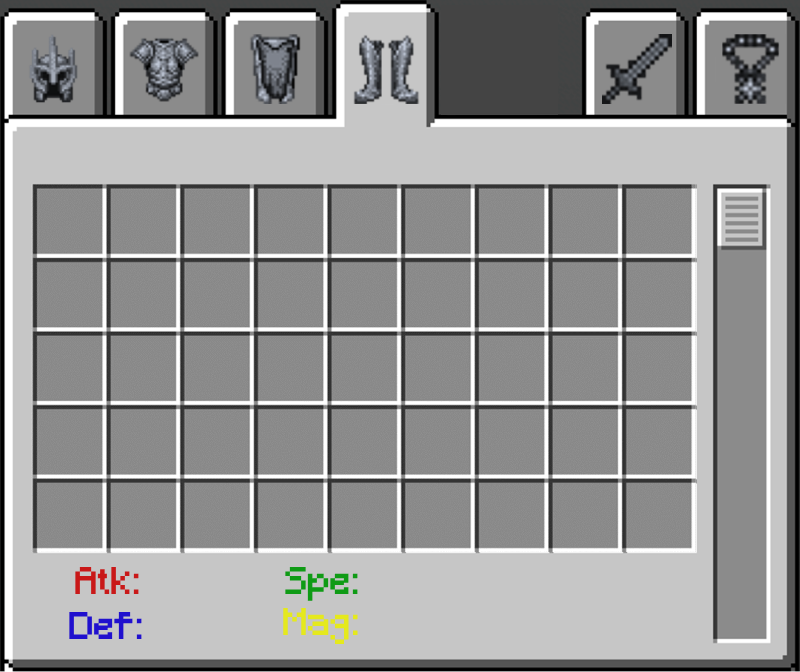
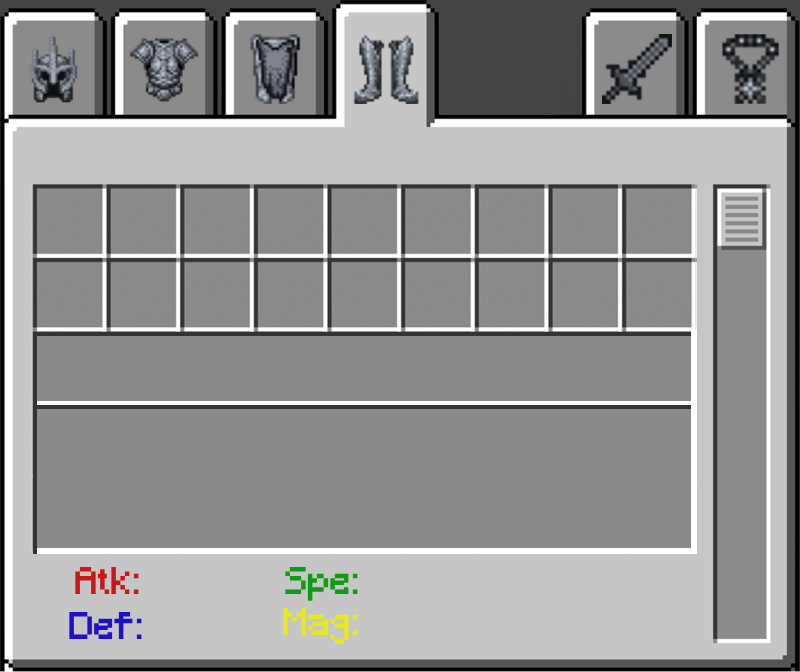
Add item's name and description in inventory page

Changed region(s): [[0.0312, 0.5, 0.875, 0.8438], [0.8438, 0.5938, 0.875, 0.625]]

diff --git a/functions.py b/functions.py
@@ -28,10 +28,12 @@ class Functions:
             inventory_items[item].place_forget()
 
         # mostrar stats del objeto
-        canvas.itemconfig(item_stats['atk'], text= list(db.data[section[:-8]].find({'code': character_armor[section][1]}))[0]['stats']['atk'])
-        canvas.itemconfig(item_stats['def'], text= list(db.data[section[:-8]].find({'code': character_armor[section][1]}))[0]['stats']['def'])
-        canvas.itemconfig(item_stats['vel'], text= list(db.data[section[:-8]].find({'code': character_armor[section][1]}))[0]['stats']['vel'])
-        canvas.itemconfig(item_stats['mag'], text= list(db.data[section[:-8]].find({'code': character_armor[section][1]}))[0]['stats']['mag'])
+        canvas.itemconfig(item_stats['atk'],            text= list(db.data[section[:-8]].find({'code': character_armor[section][1]}))[0]['stats']['atk'])
+        canvas.itemconfig(item_stats['def'],            text= list(db.data[section[:-8]].find({'code': character_armor[section][1]}))[0]['stats']['def'])
+        canvas.itemconfig(item_stats['vel'],            text= list(db.data[section[:-8]].find({'code': character_armor[section][1]}))[0]['stats']['vel'])
+        canvas.itemconfig(item_stats['mag'],            text= list(db.data[section[:-8]].find({'code': character_armor[section][1]}))[0]['stats']['mag'])
+        canvas.itemconfig(item_stats['name'],           text= list(db.data[section[:-8]].find({'code': character_armor[section][1]}))[0]['name'])
+        canvas.itemconfig(item_stats['description'],    text= list(db.data[section[:-8]].find({'code': character_armor[section][1]}))[0]['description'])
 
         try:
             if(section == 'helmets_section'):
@@ -71,6 +73,8 @@ class Functions:
         canvas.itemconfig(item_stats['def'], state= NORMAL)
         canvas.itemconfig(item_stats['vel'], state= NORMAL)
         canvas.itemconfig(item_stats['mag'], state= NORMAL)
+        canvas.itemconfig(item_stats['name'], state= NORMAL)
+        canvas.itemconfig(item_stats['description'], state= NORMAL)
 
         self.inventory_sheet_button(buttons, db, coords, inventory_items, section, background, canvas, img, character_armor, item_stats)
 
@@ -135,6 +139,8 @@ class Functions:
         canvas.itemconfig(item_stats['def'], text= list(db.data[piece[:-8]].find({'code': character_armor[piece][1]}))[0]['stats']['def'])
         canvas.itemconfig(item_stats['vel'], text= list(db.data[piece[:-8]].find({'code': character_armor[piece][1]}))[0]['stats']['vel'])
         canvas.itemconfig(item_stats['mag'], text= list(db.data[piece[:-8]].find({'code': character_armor[piece][1]}))[0]['stats']['mag'])
+        canvas.itemconfig(item_stats['name'], text= list(db.data[piece[:-8]].find({'code': character_armor[piece][1]}))[0]['name'])
+        canvas.itemconfig(item_stats['description'], text= list(db.data[piece[:-8]].find({'code': character_armor[piece][1]}))[0]['description'])
 
     def get_stat(self, db, character_armor, stat):
         helmet = list(db['helmets'].find({'code': character_armor['helmets_section'][1]}))[0]['stats'][stat]

diff --git a/GUI.py b/GUI.py
@@ -171,28 +171,44 @@ class GUI:
         item_stats = {
             'atk': canvas.create_text(
                 215.0, 584.5,
-                text = "100",
+                text = "",
                 fill = "#000000",
                 state = HIDDEN,
                 font = ("Minecraft", int(36.0))),
             'def': canvas.create_text(
                 215.0, 629.5,
-                text = "100",
+                text = "",
                 fill = "#000000",
                 state = HIDDEN,
                 font = ("Minecraft", int(36.0))),
             'vel': canvas.create_text(
                 428.0, 584.5,
-                text = "100",
+                text = "",
                 fill = "#000000",
                 state = HIDDEN,
                 font = ("Minecraft", int(36.0))),
             'mag': canvas.create_text(
                 428.0, 629.5,
-                text = "100",
+                text = "",
                 fill = "#000000",
                 state = HIDDEN,
-                font = ("Minecraft", int(36.0)))
+                font = ("Minecraft", int(36.0))),
+            'name': canvas.create_text(
+                55.0, 349.5,
+                text = "",
+                fill = "#ffffff",
+                anchor = "nw",
+                justify = 'right',
+                width = 616,
+                font = ("Minecraft", int(36.0))),
+            'description': canvas.create_text(
+                55.0, 422.0,
+                text = "",
+                fill = "#ffffff",
+                anchor = "nw",
+                justify = 'left',
+                width = 616,
+                font = ("Minecraft", int(24.0)))
         }
 
         # Botones
